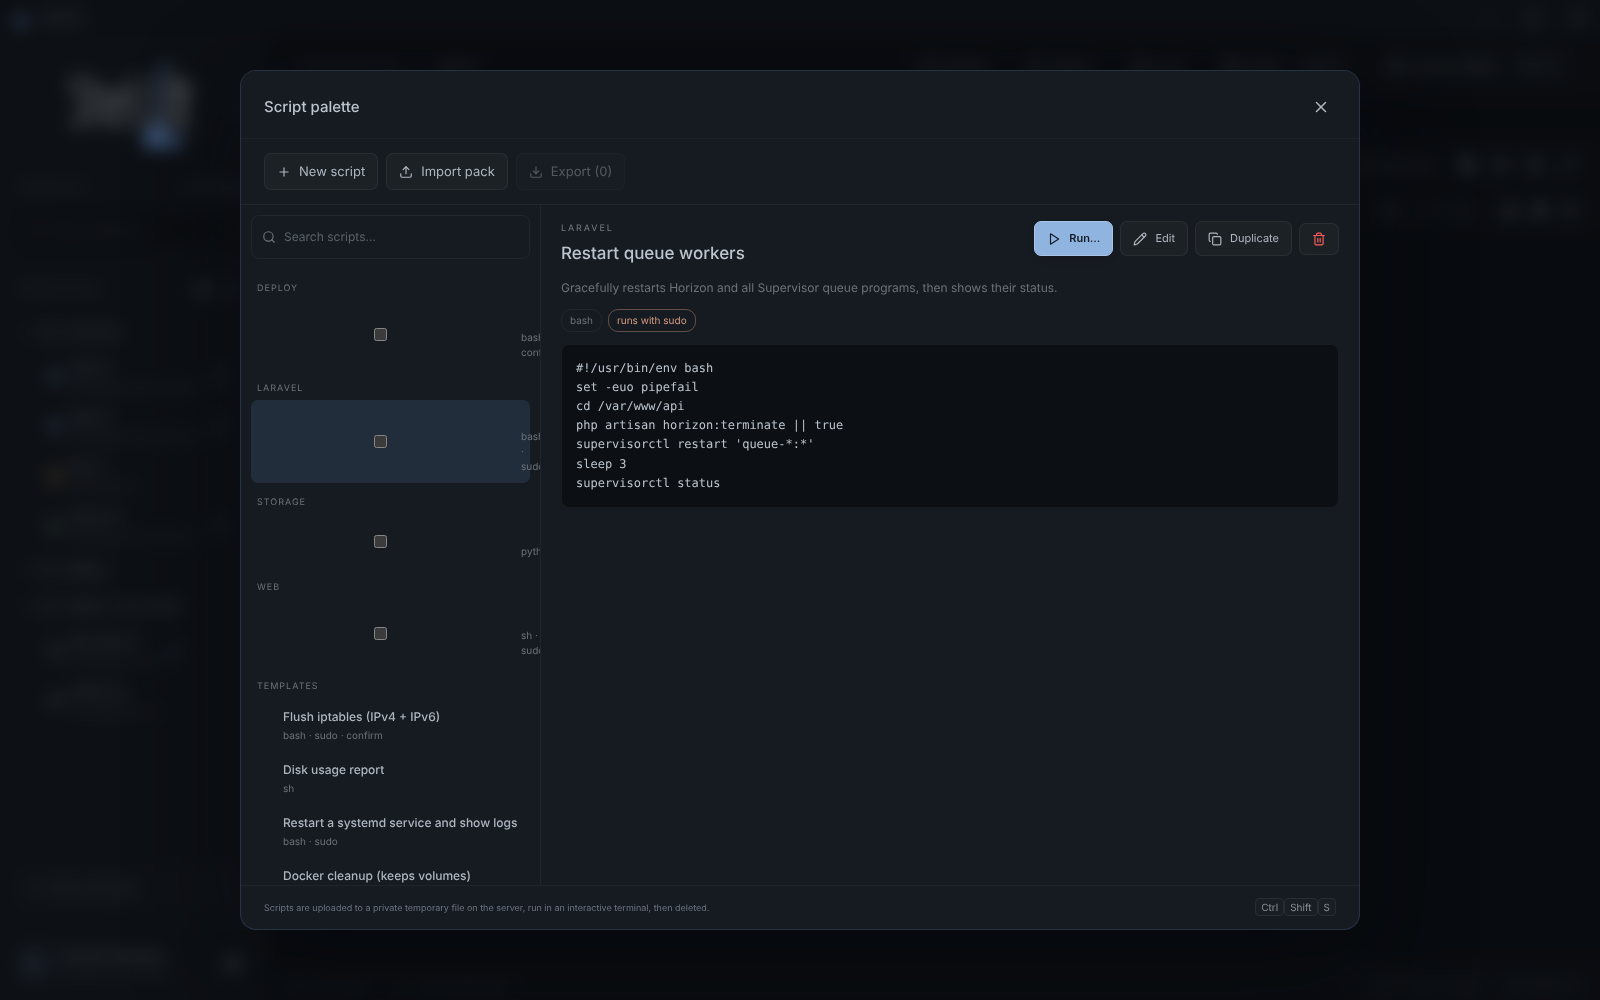
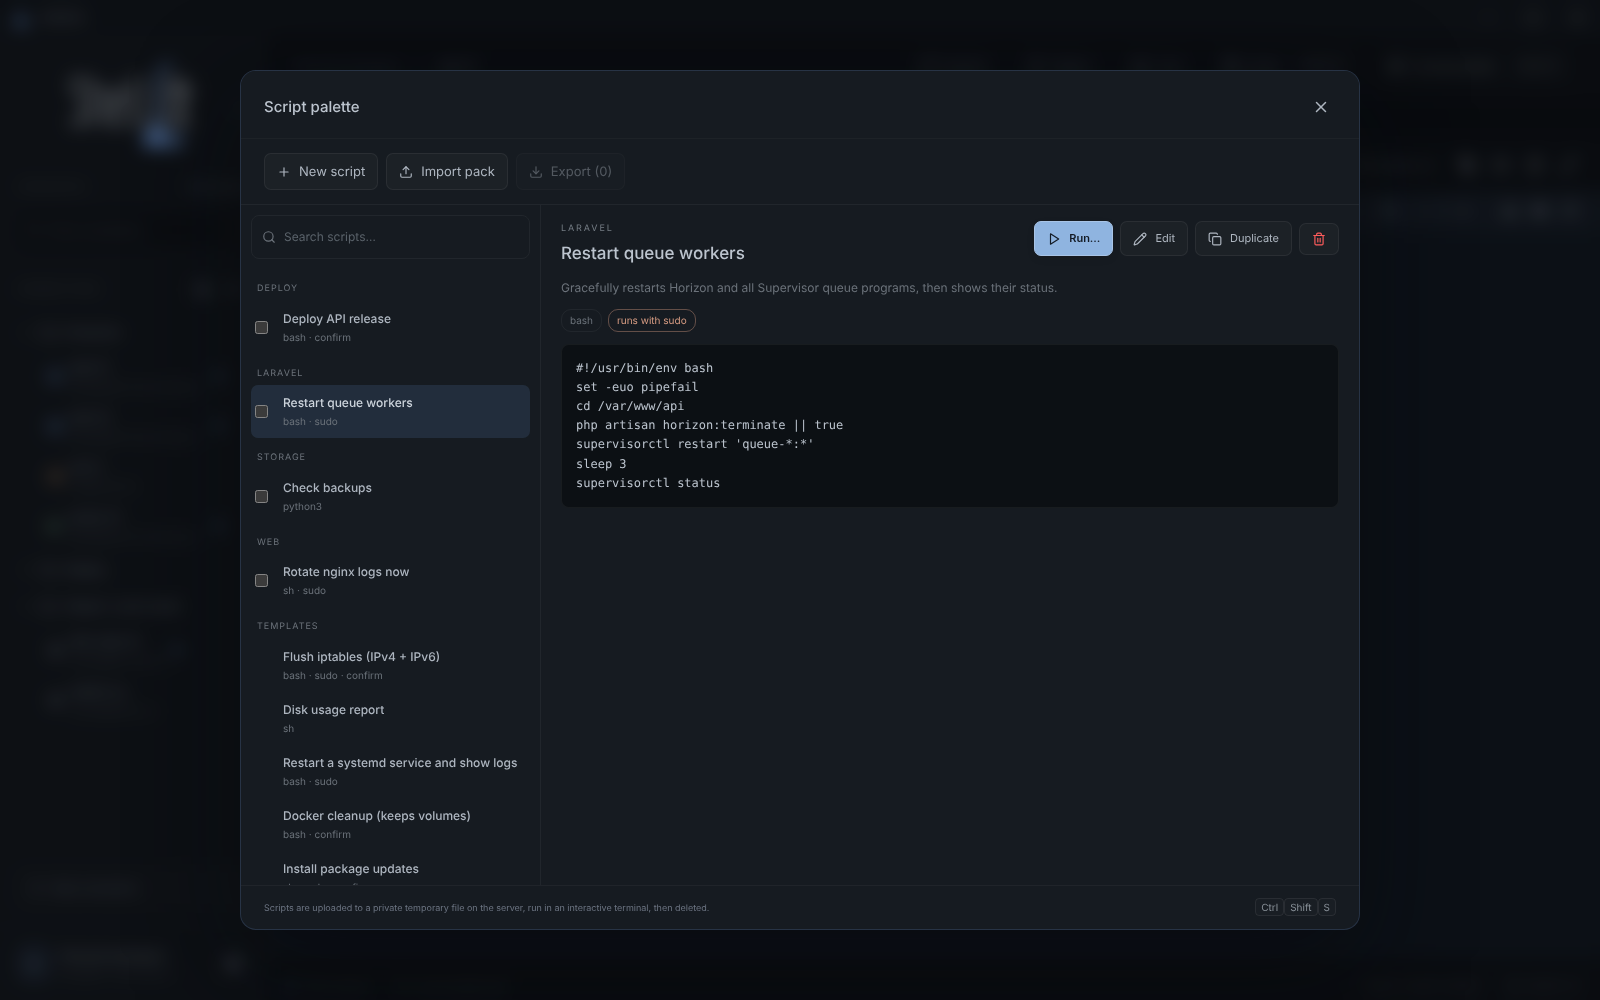
v1.5.0

diff --git a/index.html b/index.html
@@ -41,10 +41,10 @@
           local-first app.</p>
         <div class="cta">
           <a class="btn primary"
-            href="https://github.com/Rudro085/shellcat-site/releases/download/v1.4.0/ShellCat-go-amd64-installer.exe">⬇
+            href="https://github.com/Rudro085/shellcat-site/releases/download/v1.5.0/ShellCat-go-amd64-installer.exe">⬇
             Download for Windows<small>64-bit installer</small></a>
           <a class="btn"
-            href="https://github.com/Rudro085/shellcat-site/releases/download/v1.4.0/shellcat_1.4.0_amd64.deb">⬇
+            href="https://github.com/Rudro085/shellcat-site/releases/download/v1.5.0/shellcat_1.5.0_amd64.deb">⬇
             Download for Linux<small>.deb package</small></a>
         </div>
         <p class="meta"><span data-version>Latest release</span><span class="dl-count" data-downloads="total"
@@ -307,7 +307,7 @@
             <h3>🪟 Windows</h3>
             <p>Windows 10 (1809 or later) and Windows 11, 64-bit.</p>
             <a class="btn primary"
-              href="https://github.com/Rudro085/shellcat-site/releases/download/v1.4.0/ShellCat-go-amd64-installer.exe">⬇
+              href="https://github.com/Rudro085/shellcat-site/releases/download/v1.5.0/ShellCat-go-amd64-installer.exe">⬇
               Installer (.exe)</a>
             <p class="dl-count-card" data-downloads="windows" hidden></p>
           </div>
@@ -315,7 +315,7 @@
             <h3>🐧 Linux</h3>
             <p>64-bit distributions with GTK 3 and WebKitGTK (Ubuntu, Debian, Fedora, Arch…).</p>
             <a class="btn primary"
-              href="https://github.com/Rudro085/shellcat-site/releases/download/v1.4.0/shellcat_1.4.0_amd64.deb">⬇
+              href="https://github.com/Rudro085/shellcat-site/releases/download/v1.5.0/shellcat_1.5.0_amd64.deb">⬇
               Debian / Ubuntu (.deb)</a>
             <p class="dl-count-card" data-downloads="linux" hidden></p>
           </div>
@@ -343,7 +343,7 @@
             <ol class="steps">
               <li>Download the <code>.deb</code> package.</li>
               <li>Install it (dependencies are pulled in automatically):
-                <pre><code>sudo apt install ./shellcat_1.4.0_amd64.deb</code></pre>
+                <pre><code>sudo apt install ./shellcat_1.5.0_amd64.deb</code></pre>
               </li>
               <li>Start <b>ShellCat</b> from your application menu.</li>
             </ol>
